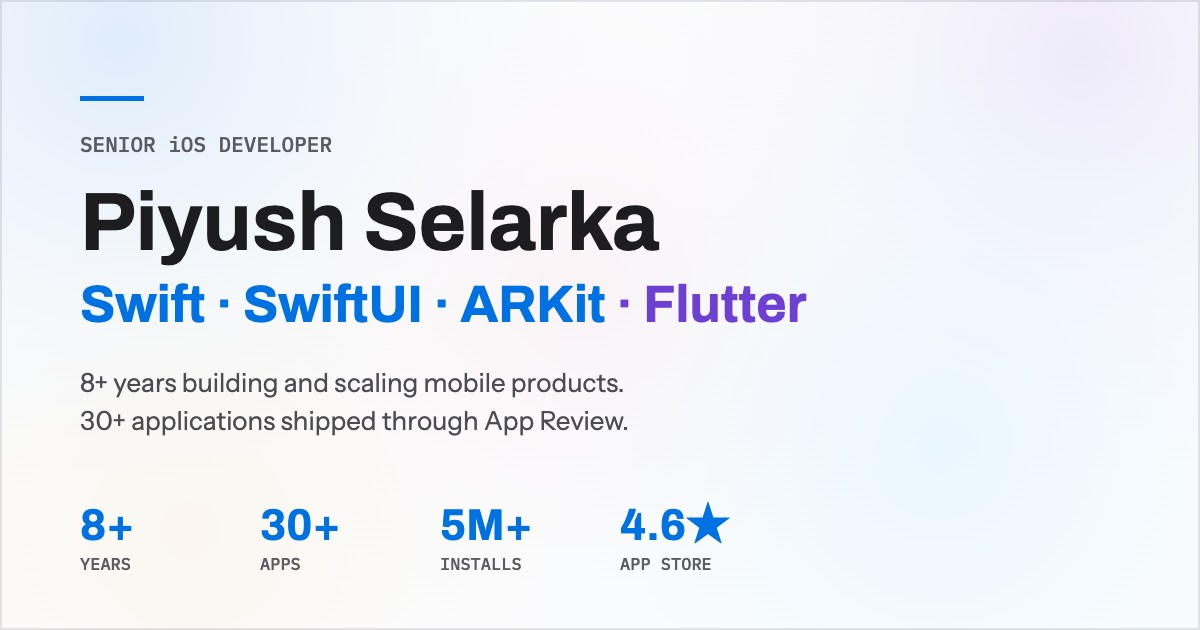
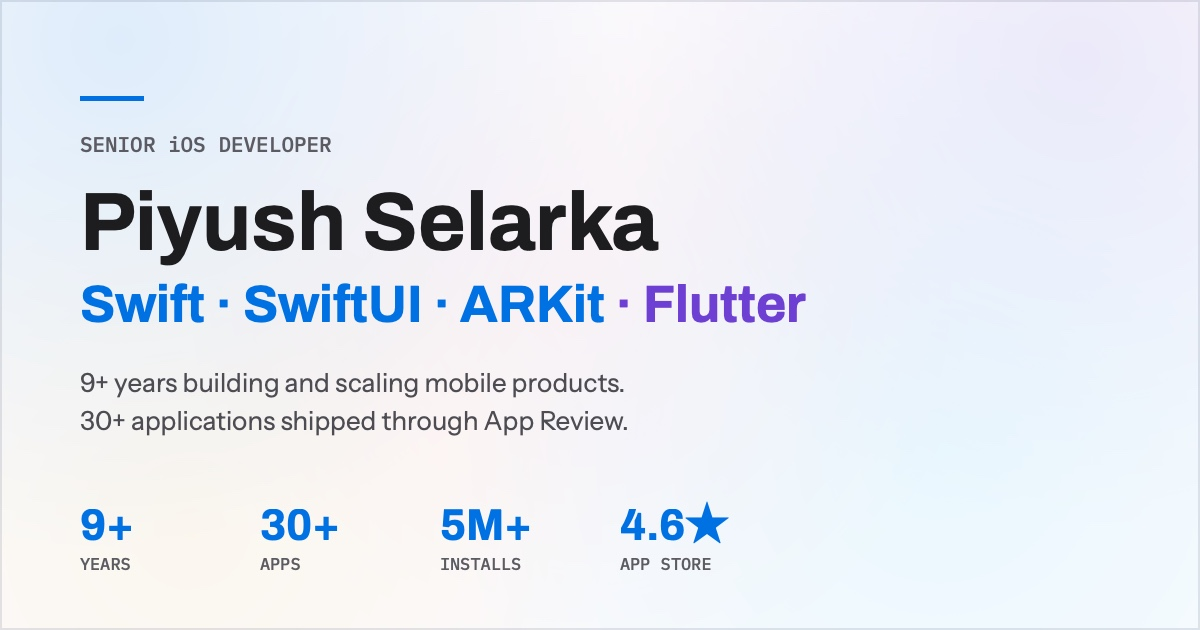
Available now, portrait in the hero, 9+ share image
Notice at MindInventory ended 2 Oct 2026, so the banner, services line,
contact line and availability FAQ all say available now, and that role
reads in the past tense. Adds a round hero portrait beside the pill,
inlined into the artifact build, and regenerates og-image.jpg at 9+.

diff --git a/index.html b/index.html
@@ -199,7 +199,14 @@
     font-family:var(--font-mono); font-size:12px; color:var(--accent);
     border:1px solid rgba(0,113,227,.22); background:var(--accent-dim);
     box-shadow:var(--sheen);
-    padding:8px 16px; border-radius:var(--r-pill); margin-bottom:26px; letter-spacing:.03em;
+    padding:8px 16px; border-radius:var(--r-pill); letter-spacing:.03em;
+  }
+  /* portrait sits beside the availability pill, so the hero gains a face without extra height */
+  .hero-id{ display:flex; align-items:center; gap:18px; margin-bottom:26px; flex-wrap:wrap; }
+  .avatar{
+    width:104px; height:104px; border-radius:50%; object-fit:cover; flex-shrink:0;
+    border:1px solid var(--border); background:var(--surface);
+    box-shadow:var(--sheen), var(--glow);
   }
   .status-pill .pulse{
     width:6px; height:6px; background:var(--accent); border-radius:50%;
@@ -800,7 +807,10 @@
 <section class="hero" id="home">
   <div class="wrap hero-grid">
     <div>
-      <div class="status-pill"><span class="pulse"></span> <span id="statusText"></span></div>
+      <div class="hero-id">
+        <img class="avatar" id="heroPhoto" width="104" height="104" alt="" hidden>
+        <div class="status-pill"><span class="pulse"></span> <span id="statusText"></span></div>
+      </div>
       <div class="eyebrow" id="heroEyebrow"></div>
       <h1 id="heroHeadline"></h1>
       <p class="hero-lede" id="heroLede"></p>
@@ -1050,7 +1060,7 @@ function renderAll(data){
   document.querySelector('meta[name="description"]').setAttribute('content', data.site.description);
 
   renderNav(data.nav, data.site);
-  renderHero(data.hero);
+  renderHero(data.hero, data.site);
   renderTrack(data.track);
   renderServices(data.services);
   renderSkills(data.skills);
@@ -1073,7 +1083,13 @@ function renderNav(nav, site){
   cta.href = nav.cta.href;
 }
 
-function renderHero(hero){
+function renderHero(hero, site){
+  const photo = document.getElementById('heroPhoto');
+  if(site && site.photo){
+    photo.src = site.photo;
+    photo.alt = site.photoAlt || site.name;
+    photo.hidden = false;
+  }
   document.getElementById('statusText').textContent = hero.status;
   document.getElementById('heroEyebrow').textContent = hero.eyebrow;
   document.getElementById('heroHeadline').innerHTML = `${esc(hero.headlinePre)}<span class="accent">${esc(hero.headlineAccent)}</span>${esc(hero.headlinePost)}`;
